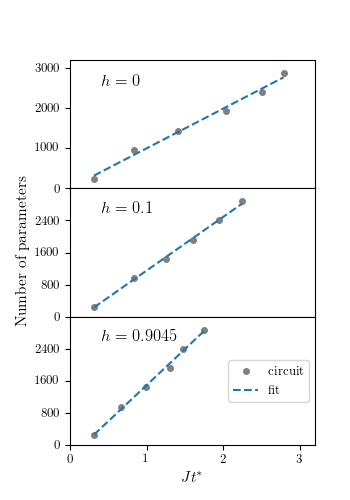
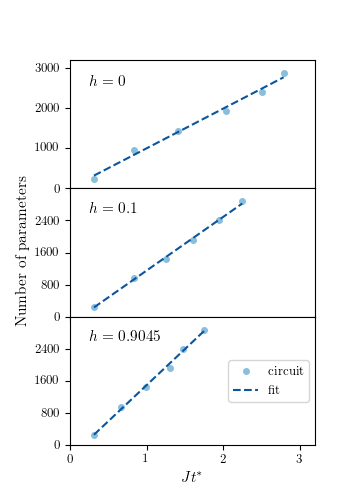
fix color; fix fit; fit fontsize

diff --git a/3_state_approx/plot_Npara_T.py b/3_state_approx/plot_Npara_T.py
@@ -9,6 +9,8 @@ import seaborn as sns
 
 # sns.set_style("whitegrid", {'axes.grid' : False})
 current_palette = sns.color_palette()
+c_color = [sns.color_palette("Blues")[5], sns.color_palette("Blues")[2]]
+mps_color = [sns.color_palette("coolwarm", 7)[6], sns.color_palette("coolwarm", 7)[5]]
 
 
 def linear_f(x, a, b):
@@ -41,9 +43,9 @@ if __name__ == '__main__':
     # a=452.011, b=1.75265, c=-952.504
     # a=477.518, b=1.73049, c=-1064.32
     # a=877.347, b=1.38, c=-1902.49
-    mps_para = [(335.921, 1.85596, -649.48),
-                (330.995, 1.8545, -628.83),
-                (344.538, 1.66872, -423.661)]
+    mps_para = [(338.673, 1.73808, -579.029),
+                (334.279, 1.73642, -563.398),
+                (349.104, 1.56043, -404.505)]
 
 
     c_para = [(987.876, 10.9262),
@@ -104,30 +106,30 @@ if __name__ == '__main__':
 
     mps_list.append( (2.83, chi_2_Npara(32)) )
 
-    ax1.plot(*zip(*c_list), 'o', color=current_palette[0], label='circuit')
     x_data, y_data = zip(*c_list)
     x_data = np.array(x_data)
     y_data = np.array(y_data)
-    ax1.plot(x_data, linear_f(x_data, *c_para[0]), '--', color=current_palette[0]
+    ax1.plot(x_data, linear_f(x_data, *c_para[0]), '--', color=c_color[1]
             )
 
 
 
-    ax1.plot(*zip(*mps_list), 'o', color=current_palette[1], label='mps')
     x_data, y_data = zip(*mps_list)
     x_data = np.array(x_data)
     y_data = np.array(y_data)
-    ax1.plot(x_data, exp_f(x_data, *mps_para[0]), '--', color=current_palette[1]
+    ax1.plot(x_data, exp_f(x_data, *mps_para[0]), '--', color=mps_color[1]
             )
 
 
+    ax1.plot(*zip(*mps_list), 'o', color=mps_color[0], label='mps')
+    ax1.plot(*zip(*c_list), 'o', color=c_color[0], label='circuit')
 
 
     # ax1.set_title(u'$g=1.4, h=0.0$')
     y_max = 8000
     dy = y_max / 5
     ax1.set_ylim([0, y_max])
-    ax1.text(0.4, y_max-dy, r'$h=0$', fontsize=12)
+    ax1.text(0.25, y_max-dy, r'$h=0$', fontsize=11)
     # ax1.legend(loc='lower right')
     # ax1.set_ylabel(u'num para')
 
@@ -180,28 +182,28 @@ if __name__ == '__main__':
 
     mps_list.append( (2.84, chi_2_Npara(32)) )
 
-    ax2.plot(*zip(*c_list), 'o', color=current_palette[0], label='circuit')
     x_data, y_data = zip(*c_list)
     x_data = np.array(x_data)
     y_data = np.array(y_data)
-    ax2.plot(x_data, linear_f(x_data, *c_para[1]), '--', color=current_palette[0]
+    ax2.plot(x_data, linear_f(x_data, *c_para[1]), '--', color=c_color[1]
             )
 
 
 
-    ax2.plot(*zip(*mps_list), 'o', color=current_palette[1], label='mps')
     x_data, y_data = zip(*mps_list)
     x_data = np.array(x_data)
     y_data = np.array(y_data)
-    ax2.plot(x_data, exp_f(x_data, *mps_para[1]), '--', color=current_palette[1]
+    ax2.plot(x_data, exp_f(x_data, *mps_para[1]), '--', color=mps_color[1]
             )
 
 
+    ax2.plot(*zip(*mps_list), 'o', color=mps_color[0], label='mps')
+    ax2.plot(*zip(*c_list), 'o', color=c_color[0], label='circuit')
 
 
     # plt.title(u'$g=1.4, h=0.1$')
     ax2.set_ylim([0, y_max])
-    ax2.text(0.4, y_max-dy, r'$h=0.1$', fontsize=12)
+    ax2.text(0.25, y_max-dy, r'$h=0.1$', fontsize=11)
     # ax2.legend(loc='lower right')
     ax2.set_ylabel(u'Number of parameters')
     nbins = len(ax2.get_yticklabels()) # added
@@ -256,27 +258,26 @@ if __name__ == '__main__':
 
     mps_list.append( (3.13, chi_2_Npara(32)) )
 
-    ax3.plot(*zip(*c_list), 'o', color=current_palette[0], label='circuit')
     x_data, y_data = zip(*c_list)
     x_data = np.array(x_data)
     y_data = np.array(y_data)
-    ax3.plot(x_data, linear_f(x_data, *c_para[2]), '--', color=current_palette[0]
+    ax3.plot(x_data, linear_f(x_data, *c_para[2]), '--', color=c_color[1]
             )
 
 
-
-    ax3.plot(*zip(*mps_list), 'o', color=current_palette[1], label='mps')
     x_data, y_data = zip(*mps_list)
     x_data = np.array(x_data)
     y_data = np.array(y_data)
-    ax3.plot(x_data, exp_f(x_data, *mps_para[2]), '--', color=current_palette[1]
+    ax3.plot(x_data, exp_f(x_data, *mps_para[2]), '--', color=mps_color[1]
             )
 
 
+    ax3.plot(*zip(*mps_list), 'o', color=mps_color[0], label='mps')
+    ax3.plot(*zip(*c_list), 'o', color=c_color[0], label='circuit')
 
     # plt.title(u'$g=1.4, h=0.9045$')
     ax3.set_ylim([0, y_max])
-    ax3.text(0.4, y_max-dy, r'$h=0.9045$', fontsize=12)
+    ax3.text(0.25, y_max-dy, r'$h=0.9045$', fontsize=11)
     # ax3.legend(loc='lower right')
     ax3.legend(loc='center right')
     # ax3.set_ylabel(u'num para')

diff --git a/3_state_approx/plot_Npara_T_curvefit.py b/3_state_approx/plot_Npara_T_curvefit.py
@@ -11,10 +11,13 @@ import seaborn as sns
 # sns.set_style("whitegrid", {'axes.grid' : False})
 current_palette = sns.color_palette()
 
-color_dot = 'gray'
-color_dot2 = 'gray'
-color_fit = current_palette[1]
-color_fit2 = current_palette[0]
+c_color = [sns.color_palette("Blues")[5], sns.color_palette("Blues")[2]]
+mps_color = [sns.color_palette("coolwarm", 7)[6], sns.color_palette("coolwarm", 7)[5]]
+
+color_dot = sns.color_palette("coolwarm", 7)[4]
+color_dot2 = sns.color_palette("Blues")[2]
+color_fit = sns.color_palette("coolwarm", 7)[6]
+color_fit2 = sns.color_palette("Blues")[5]
 markersize = 4.
 
 
@@ -107,7 +110,7 @@ if __name__ == '__main__':
     y_max = 50000
     dy = y_max / 5
     ax1.set_ylim([0, y_max])
-    ax1.text(0.4, y_max-dy, r'$h=0$', fontsize=12)
+    ax1.text(0.25, y_max-dy, r'$h=0$', fontsize=11)
     # ax1.legend(loc='lower right')
     # ax1.set_ylabel(u'num para')
 
@@ -169,7 +172,7 @@ if __name__ == '__main__':
 
     # plt.title(u'$g=1.4, h=0.1$')
     ax2.set_ylim([0, y_max])
-    ax2.text(0.4, y_max-dy, r'$h=0.1$', fontsize=12)
+    ax2.text(0.25, y_max-dy, r'$h=0.1$', fontsize=11)
     # ax2.legend(loc='lower right')
     ax2.set_ylabel(u'Number of parameters')
     nbins = len(ax2.get_yticklabels()) # added
@@ -234,7 +237,7 @@ if __name__ == '__main__':
 
     # plt.title(u'$g=1.4, h=0.9045$')
     ax3.set_ylim([0, y_max])
-    ax3.text(0.4, y_max-dy, r'$h=0.9045$', fontsize=12)
+    ax3.text(0.25, y_max-dy, r'$h=0.9045$', fontsize=11)
     # ax3.legend(loc='lower right')
     # ax1.legend(loc='center right')
     # ax2.legend(loc='center right')
@@ -294,7 +297,7 @@ if __name__ == '__main__':
     y_max = 3200
     dy = y_max / 5
     ax1.set_ylim([0, y_max])
-    ax1.text(0.4, y_max-dy, r'$h=0$', fontsize=12)
+    ax1.text(0.25, y_max-dy, r'$h=0$', fontsize=11)
     # ax1.legend(loc='lower right')
     # ax1.set_ylabel(u'num para')
 
@@ -327,7 +330,7 @@ if __name__ == '__main__':
 
     # plt.title(u'$g=1.4, h=0.1$')
     ax2.set_ylim([0, y_max])
-    ax2.text(0.4, y_max-dy, r'$h=0.1$', fontsize=12)
+    ax2.text(0.25, y_max-dy, r'$h=0.1$', fontsize=11)
     # ax2.legend(loc='lower right')
     ax2.set_ylabel(u'Number of parameters')
     nbins = len(ax2.get_yticklabels()) # added
@@ -363,7 +366,7 @@ if __name__ == '__main__':
 
     # plt.title(u'$g=1.4, h=0.9045$')
     ax3.set_ylim([0, y_max])
-    ax3.text(0.4, y_max-dy, r'$h=0.9045$', fontsize=12)
+    ax3.text(0.25, y_max-dy, r'$h=0.9045$', fontsize=11)
     # ax3.legend(loc='lower right')
     # ax1.legend(loc='center right')
     # ax2.legend(loc='center right')

diff --git a/3_state_approx/plot_circuit_mps_compare_full.py b/3_state_approx/plot_circuit_mps_compare_full.py
@@ -27,7 +27,7 @@ if __name__ == '__main__':
     order = '1st'
 
     num_frame = 2
-    fig, axes_list = plt.subplots(2, 4, figsize=(7.0, 2.9), sharey='row', sharex=True)
+    fig, axes_list = plt.subplots(2, 4, figsize=(7.0, 2.8), sharey='row', sharex=True)
     plt.subplots_adjust(hspace=0.1)
     plt.subplots_adjust(wspace=0.02)
 
@@ -80,14 +80,14 @@ if __name__ == '__main__':
             markersize = 4.
             linewidth = 1
             # ax1 = plt.subplot(2,1,1)
-            ax1.semilogy(t_list, fidelity_error_list, 'o--', color=color, label='depth=%d' % depth,
+            ax1.semilogy(t_list, fidelity_error_list, 'o--', color=color, label='$M=%d$' % depth,
                          linewidth=linewidth, markersize=markersize)
 
             # ax2 = plt.subplot(2,1,2, sharex=ax1)
             # plt.semilogy(t_list, diff_sz_list, 'o--', color=color, label='depth=%d' % depth)
             # plt.semilogy(t_list, num_iter_list, 'o--', color=color, label='depth=%d' % depth)
             # ax1 = plt.subplot(2,1,1)
-            ax2.plot(t_list, ent_list, 'o--', color=color, label='depth=%d' % depth,
+            ax2.plot(t_list, ent_list, 'o--', color=color, label='$M=%d$' % depth,
                      linewidth=linewidth, markersize=markersize)
 
 
@@ -136,7 +136,7 @@ if __name__ == '__main__':
         # ax3.xaxis.set_major_formatter(ticks_x)
 
         # ax2.set_xlabel(u'T')
-        ax1.set_title(u"$h = %g$" % (h), fontsize=12)
+        ax1.set_title(u"$h = %g$" % (h), fontsize=10)
         ax2.xaxis.set_ticks([0., 1., 2., 3., 4.])
         # plt.setp(ax1.get_xticklabels(), fontsize=10)
 
@@ -183,8 +183,8 @@ if __name__ == '__main__':
                       )
 
 
-    fig.text(0.5, 0.0, u'$Jt$', ha='center', fontsize=11)
+    fig.text(0.5, 0.0, u'$Jt$', ha='center', fontsize=10)
     # fig.suptitle(u'$g=1.4$')
-    plt.savefig('figure/full_circuit.pdf')
+    plt.savefig('figure/MPS-to-circuit.pdf')
     plt.show()
 

diff --git a/setup.py b/setup.py
@@ -13,7 +13,7 @@ from matplotlib import ticker ## to control the number of tick in plot
 from matplotlib.ticker import LinearLocator
 from matplotlib.ticker import FormatStrFormatter
 
-x=25
+x=26
 params = {'legend.fontsize':34-x,#'xx-large', 
                     # 'figure.figsize': (15,6),
                     'axes.labelsize': 36-x,
